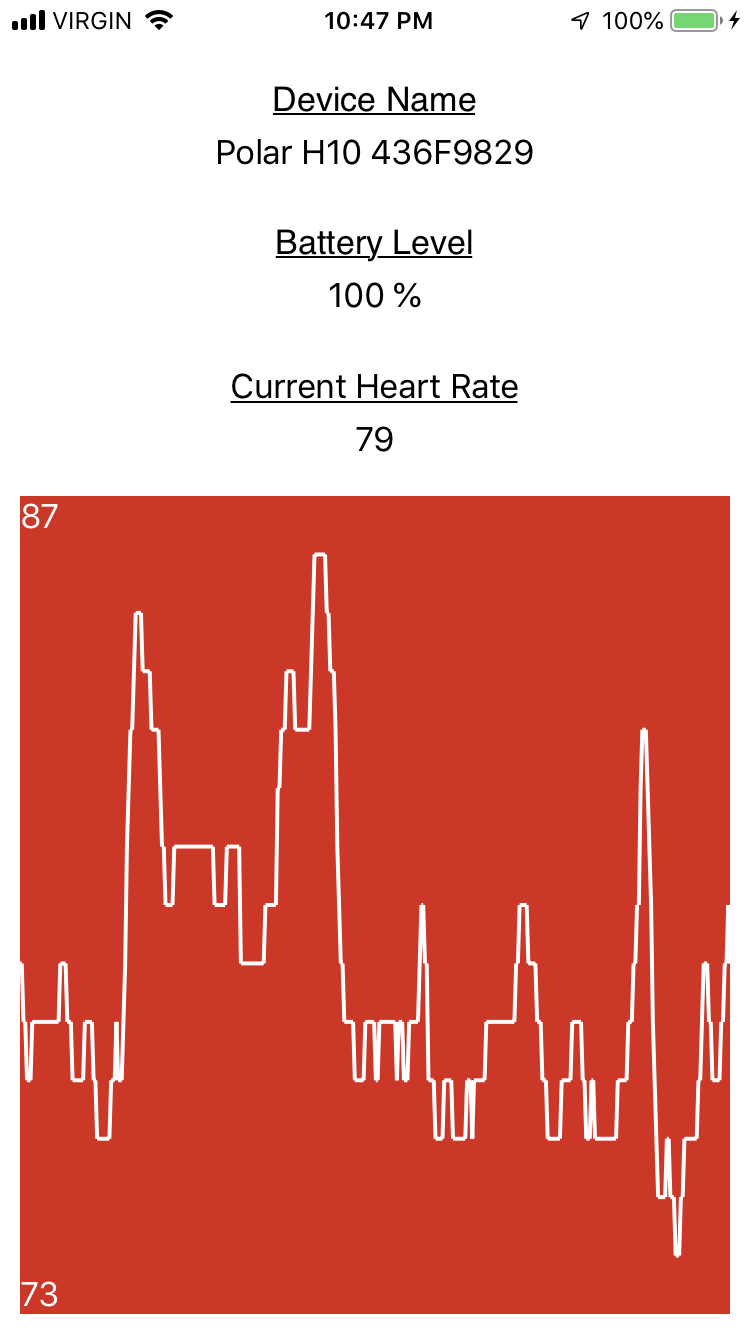
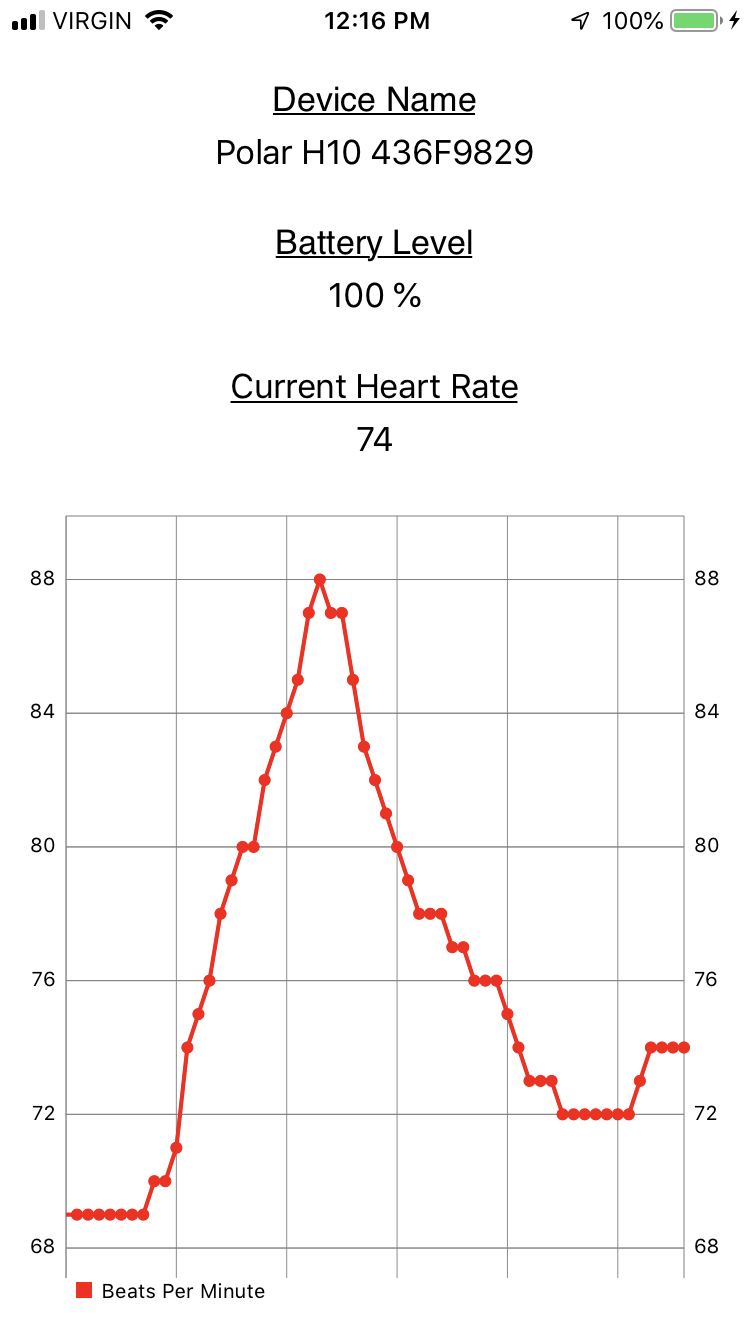
Use iOS Charts via CocoaPods rather than custom graphing

diff --git a/SGHeartRate/SGHeartRateViewController.swift b/SGHeartRate/SGHeartRateViewController.swift
@@ -1,5 +1,5 @@
 //
-//  ViewController.swift
+//  SGHeartRateViewController.swift
 //  SGHeartRate
 //
 //  Created by Sophie Prince on 2019-02-26.
@@ -12,6 +12,7 @@
 
 import UIKit
 import CoreBluetooth
+import Charts
 
 let deviceInfoServiceCBUUID = CBUUID(string: "0x180A")
 let deviceManufacturerNameCBUUID = CBUUID(string: "0x2A29")
@@ -30,21 +31,33 @@ class SGHeartRateViewController: UIViewController {
     @IBOutlet weak var deviceNameLabel: UILabel!
     @IBOutlet weak var batteryLevelLabel: UILabel!
     @IBOutlet weak var latestHeartRateLabel: UILabel!
-    @IBOutlet weak var graphView: GraphView!
+    @IBOutlet weak var lineChartView: LineChartView!
     
     var centralManager: CBCentralManager!
     var heartRatePeripheral: CBPeripheral!
+    var lineChartDataSet = LineChartDataSet()
 
     override func viewDidLoad() {
         super.viewDidLoad()
         
         centralManager = CBCentralManager(delegate: self, queue: nil)
+        
+        lineChartView.xAxis.drawLabelsEnabled = false
+        lineChartDataSet.lineWidth = 2
+        lineChartDataSet.circleRadius = 3
+        lineChartDataSet.label = NSLocalizedString("beatsPerMinute", comment: "")
+        lineChartDataSet.setCircleColor(UIColor.red)
+        lineChartDataSet.colors = [UIColor.red]
+        lineChartDataSet.drawValuesEnabled = false
     }
     
     func onHeartRateReceived(_ heartRate: Int) {
         latestHeartRateLabel.text = String(heartRate)
         if heartRate > 0 {
-            graphView.addPoint(aPoint: heartRate)
+            let entry = ChartDataEntry(x: Double(lineChartDataSet.count), y: Double(heartRate))
+            lineChartDataSet.append(entry)
+            let lineChartData = LineChartData(dataSet: lineChartDataSet)
+            lineChartView.data = lineChartData
         }
         print("BPM: \(heartRate)")
     }
@@ -126,7 +139,6 @@ extension SGHeartRateViewController: CBPeripheralDelegate {
                 print("\(characteristic.uuid): properties contains .notify")
                 peripheral.setNotifyValue(true, for: characteristic)
             }
-            
         }
     }
     
@@ -198,6 +210,8 @@ extension SGHeartRateViewController: CBPeripheralDelegate {
     
     private func deviceName(from characteristic: CBCharacteristic) -> String {
         guard let characteristicData = characteristic.value else { return "" }
+        
+        // Ascii?  Should it be UTF8 ?
         guard let name = String(data: characteristicData, encoding: String.Encoding.ascii) else { return "" }
         return name
     }
